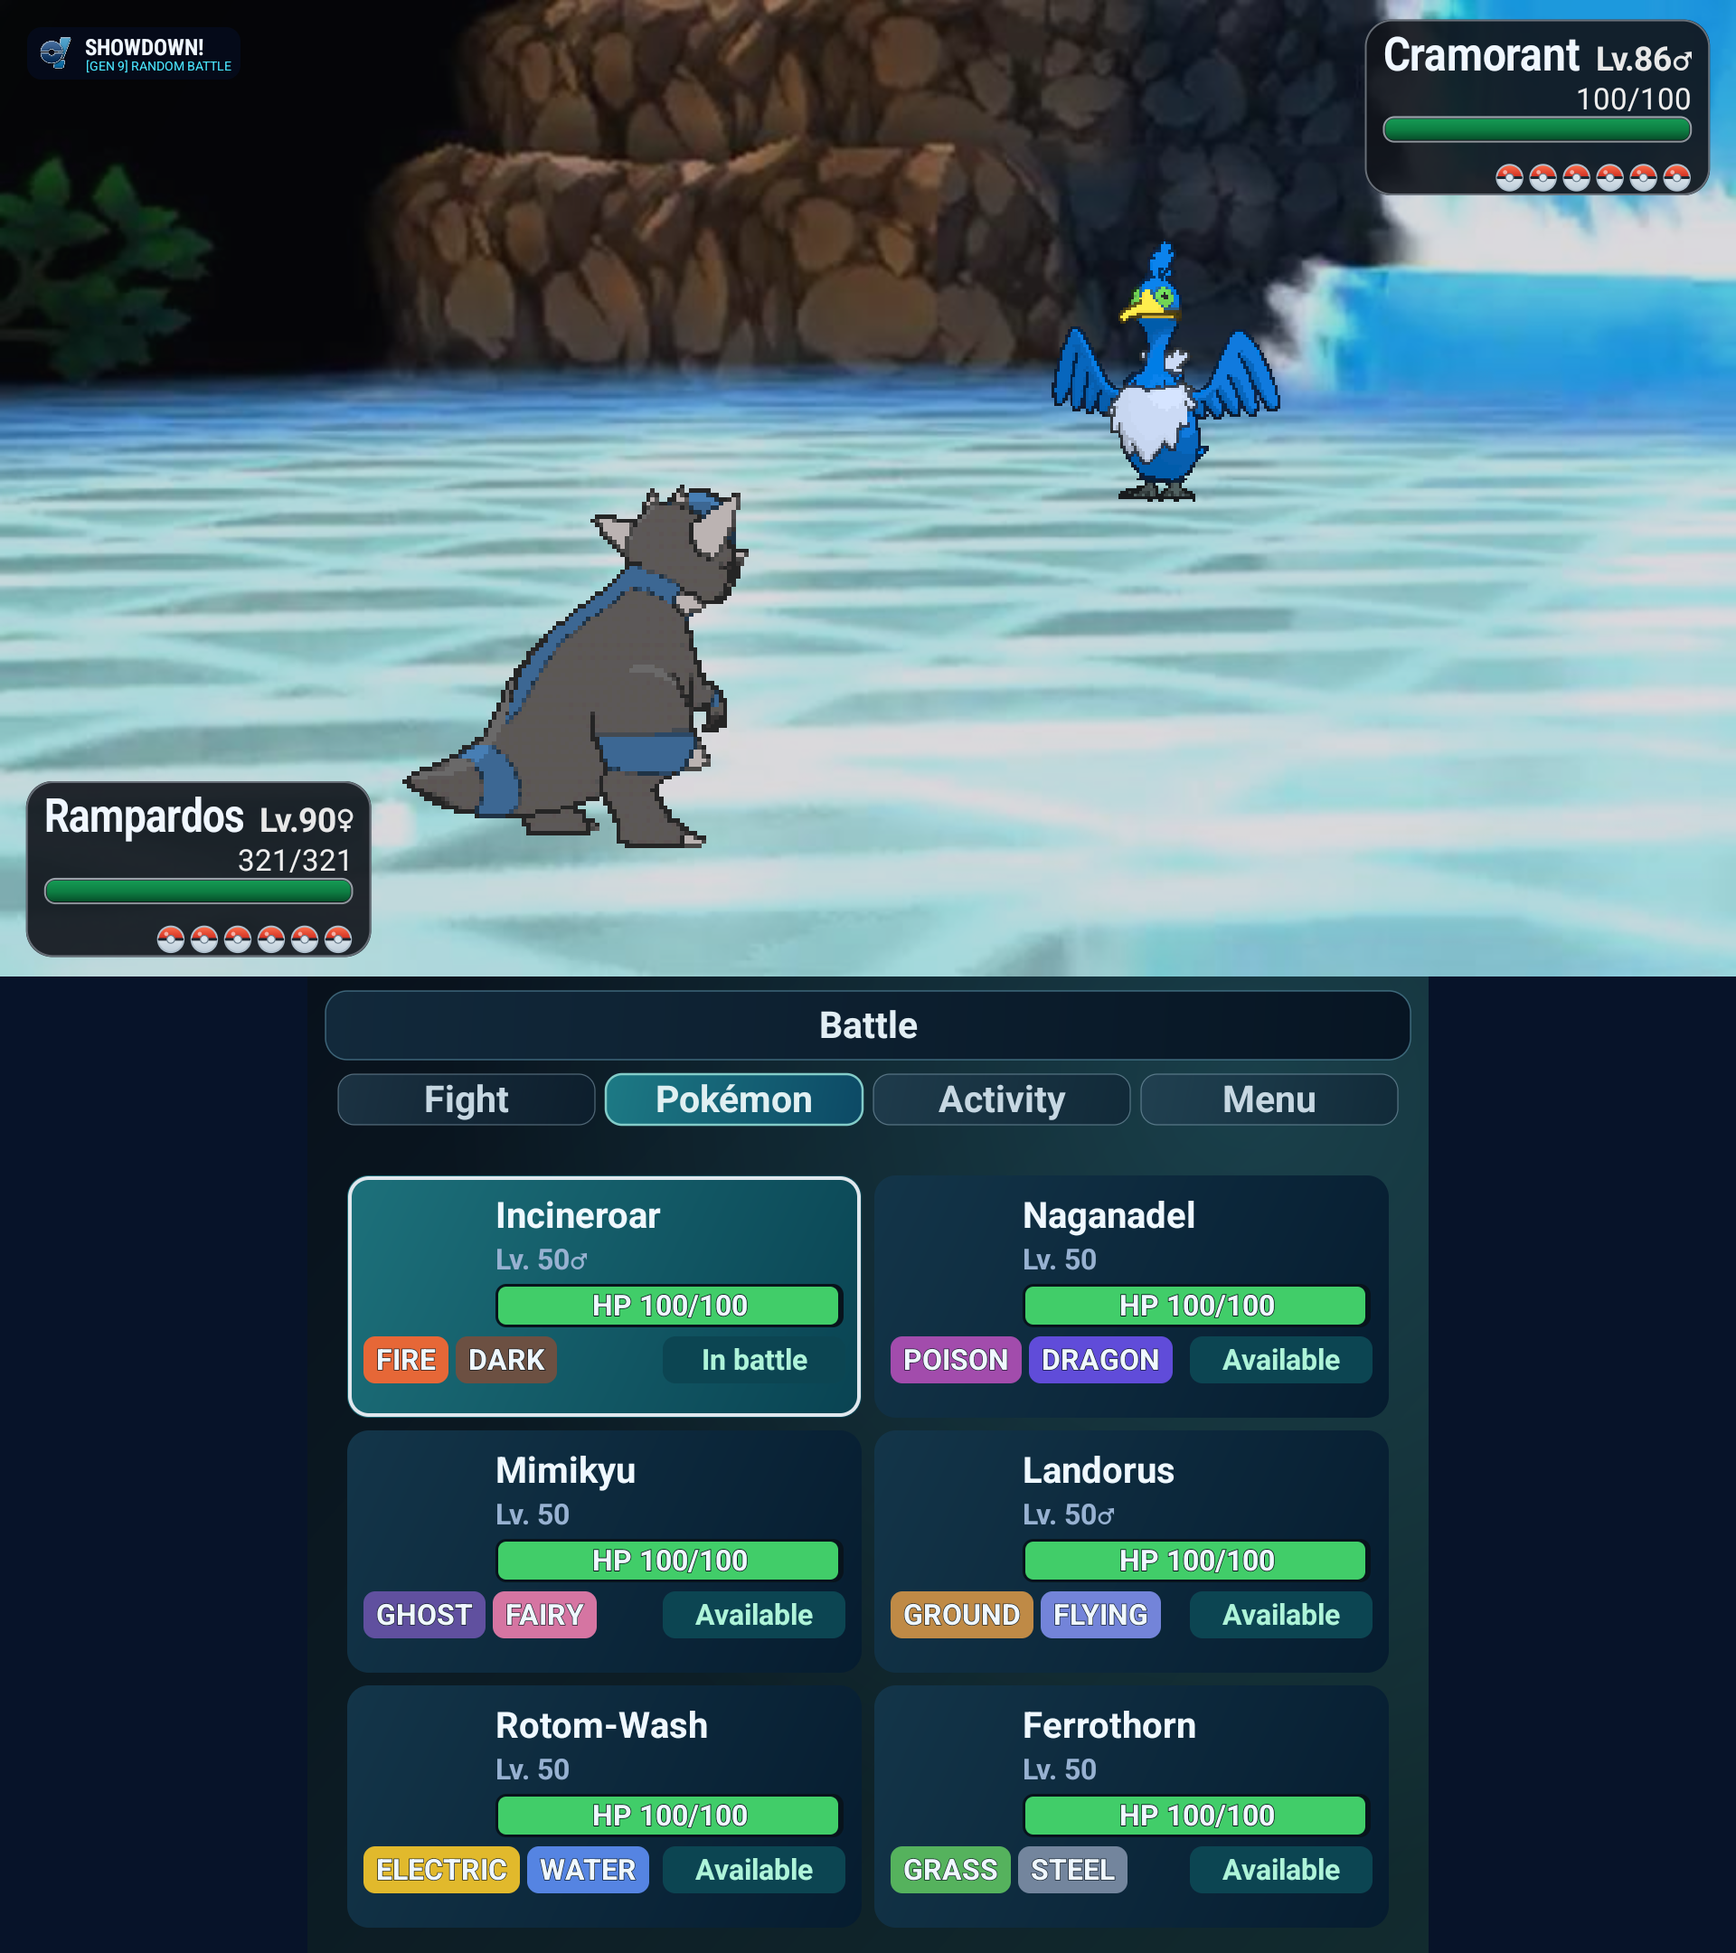
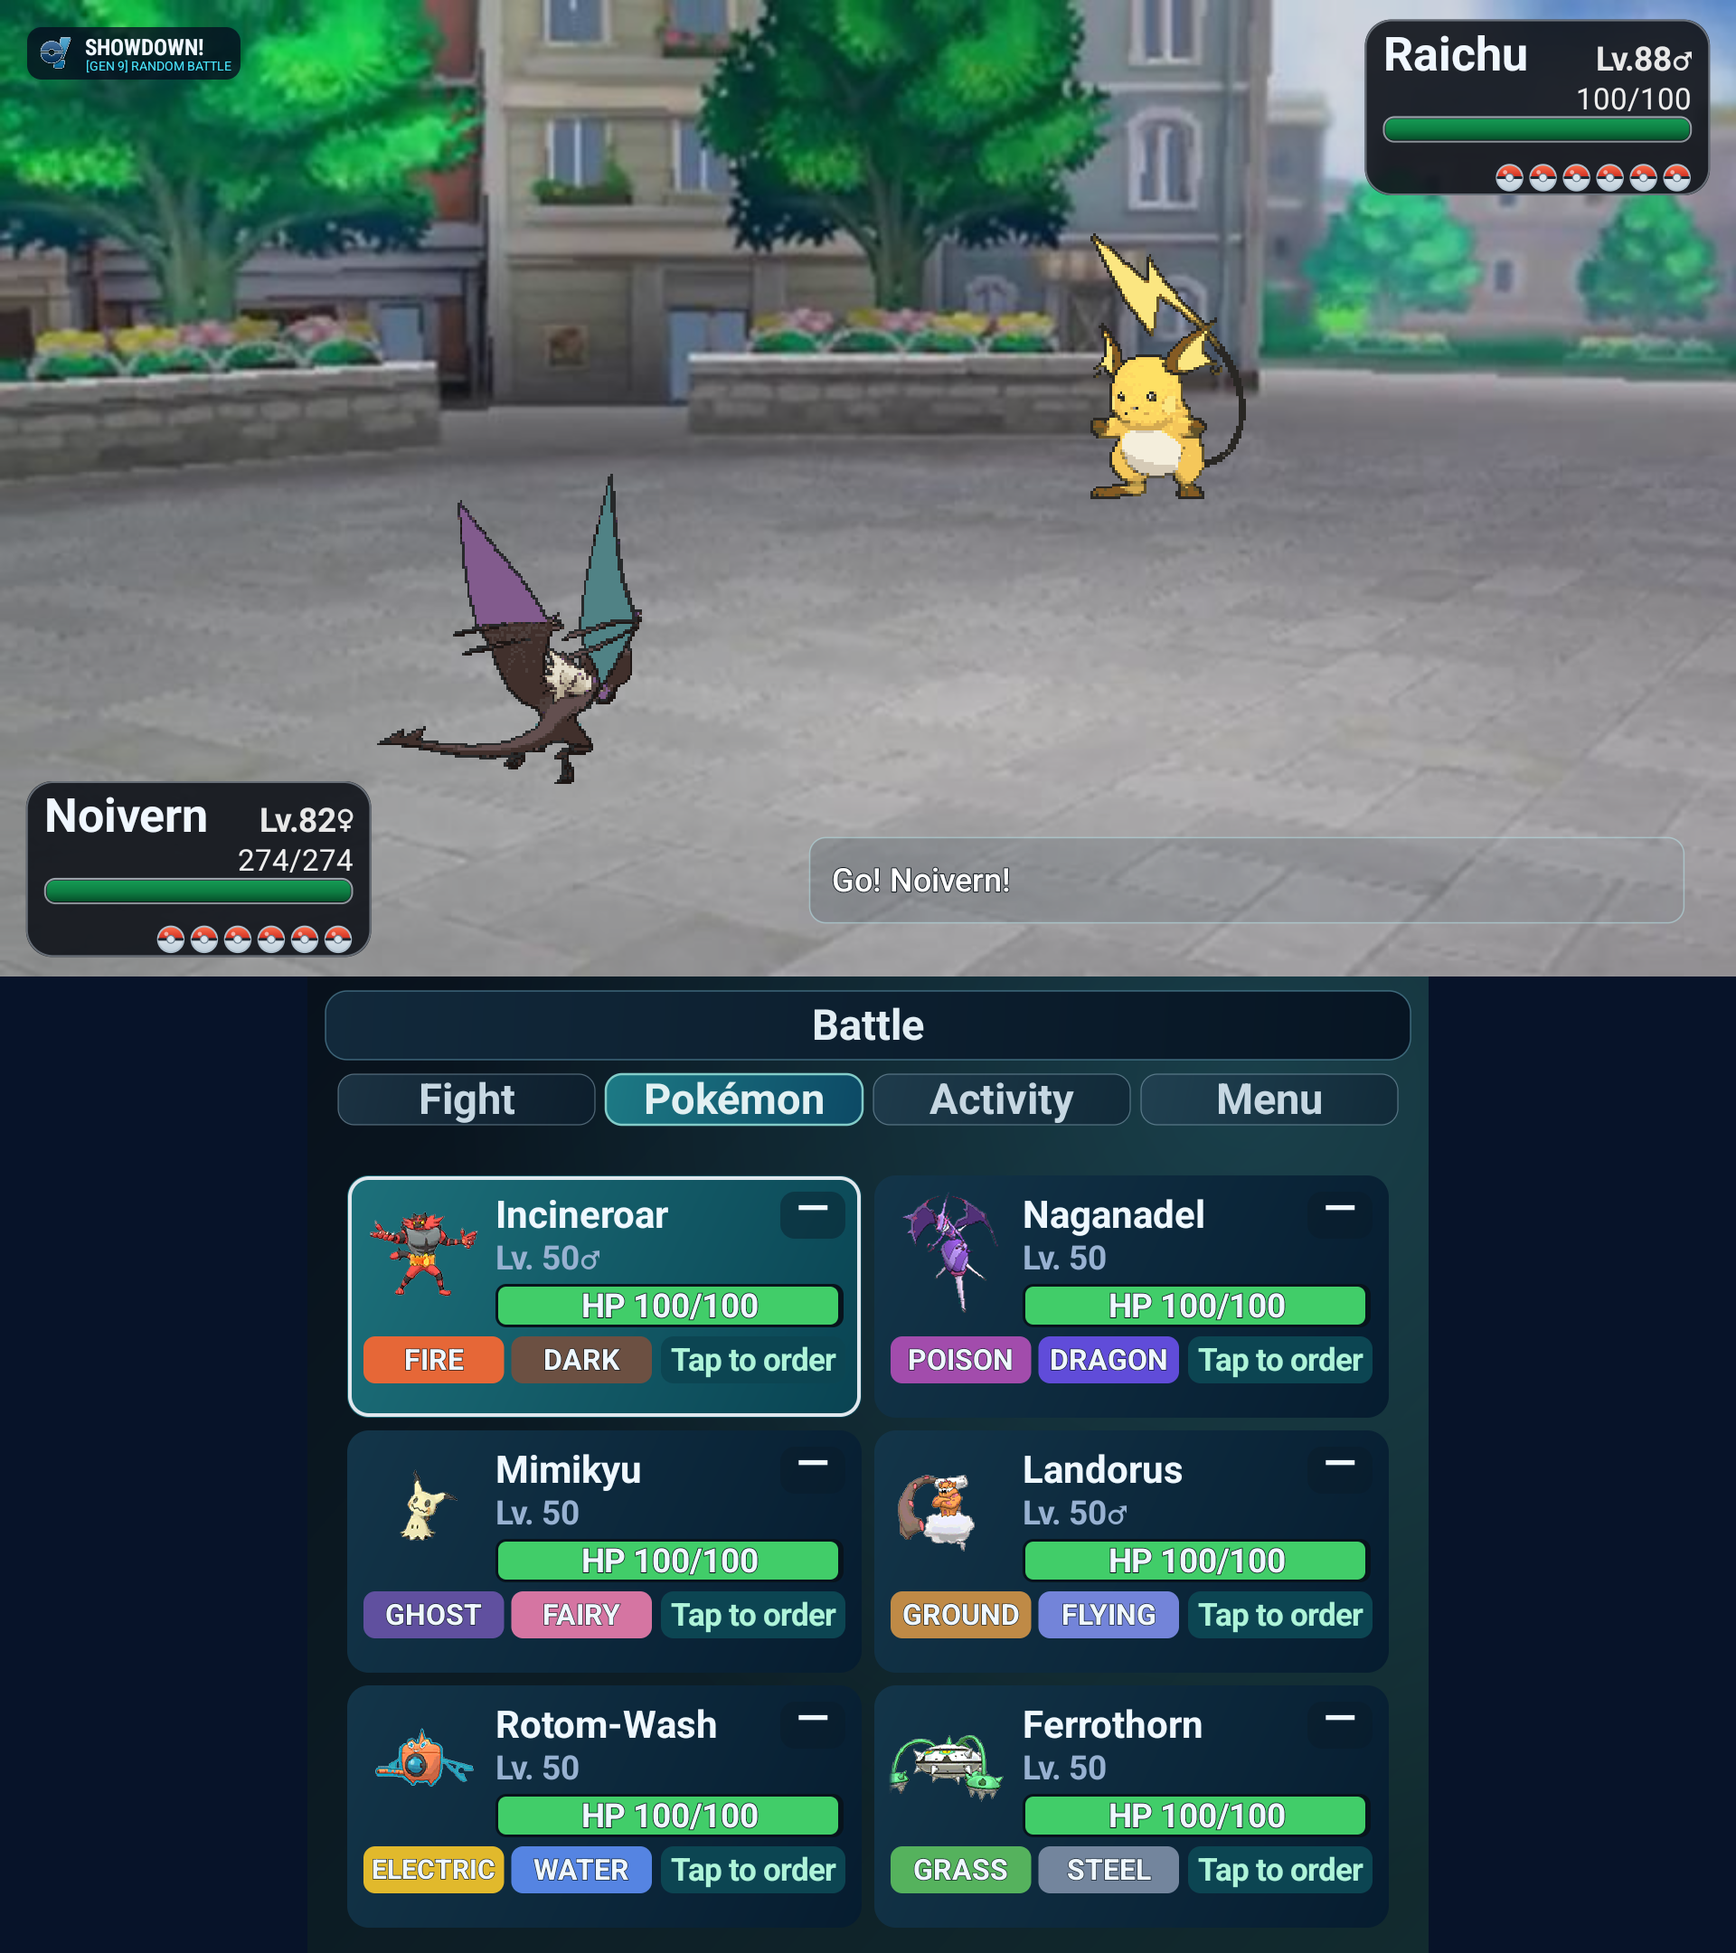
fix: contain switch cards and align battle log perspective

diff --git a/app/src/main/kotlin/dev/adrian/showdown/CommandDeckView.kt b/app/src/main/kotlin/dev/adrian/showdown/CommandDeckView.kt
@@ -1362,6 +1362,8 @@ class CommandDeckView(
                 canvas.drawText(if (previewPosition >= 0) "${previewPosition + 1}" else "—", marker.centerX(), marker.centerY() + 8f * scale, paint)
                 paint.textAlign = Paint.Align.LEFT
             }
+            canvas.save()
+            canvas.clipRect(bounds)
             val spriteBounds = RectF(bounds.left + 16f * scale, bounds.top + 18f * scale, bounds.left + 150f * scale, bounds.top + 152f * scale)
             teamSprites[pokemon]?.draw(canvas, spriteBounds, SystemClock.elapsedRealtime())
             paint.typeface = android.graphics.Typeface.create("sans-serif", android.graphics.Typeface.BOLD)
@@ -1381,19 +1383,24 @@ class CommandDeckView(
             paint.color = MUTED
             canvas.drawText("Lv. ${details.level}${details.gender.ifBlank { "" }}", nameLeft, bounds.top + 104f * scale, paint)
             drawTeamHp(canvas, RectF(nameLeft, bounds.top + 120f * scale, bounds.right - 20f * scale, bounds.top + 168f * scale), details.hp, scale)
-            var typeX = bounds.left + 18f * scale
             paint.typeface = android.graphics.Typeface.create("sans-serif", android.graphics.Typeface.BOLD)
-            paint.textSize = readableTextSize(20f, scale, 18f, 14f)
             val bottomRow = RectF(bounds.left + 18f * scale, bounds.top + 178f * scale, bounds.right - 18f * scale, bounds.top + 230f * scale)
-            details.types.forEach { type ->
-                val typeWidth = maxOf(92f * scale, paint.measureText(type) + 28f * scale)
-                val typeBounds = RectF(typeX, bottomRow.top, typeX + typeWidth, bottomRow.bottom)
+            val visibleTypes = details.types.take(2)
+            val rowBounds = SwitchTeamLayout.rowBounds(bounds.toSwitchTeamBounds(), scale, visibleTypes.size)
+            visibleTypes.forEachIndexed { index, type ->
+                val typeRegion = SwitchTeamLayout.typeBounds(rowBounds, index)
+                val typeBounds = RectF(typeRegion.left, bottomRow.top, typeRegion.right, bottomRow.bottom)
                 paint.color = movePalette(type).base
                 canvas.drawRoundRect(typeBounds, 13f * scale, 13f * scale, paint)
                 paint.textAlign = Paint.Align.CENTER
+                paint.textSize = fittedTextSize(
+                    type,
+                    typeBounds.width() - 18f * scale,
+                    readableTextSize(20f, scale, 18f, 12f),
+                    readableTextSize(14f, scale, 12f, 12f)
+                )
                 drawOutlinedText(canvas, type, typeBounds.centerX(), centeredTextBaseline(typeBounds.centerY()), Color.rgb(7, 18, 26), PAPER, 1.5f * scale)
                 paint.textAlign = Paint.Align.LEFT
-                typeX = typeBounds.right + 8f * scale
             }
             val state = when {
                 details.condition.contains("FNT", true) -> "Fainted"
@@ -1402,8 +1409,7 @@ class CommandDeckView(
                 pokemon.equals(session.playerPokemon, true) -> "In battle"
                 else -> "Available"
             }
-            val stateLeft = maxOf(typeX + 4f * scale, bounds.right - 220f * scale)
-            val stateBounds = RectF(stateLeft, bottomRow.top, bounds.right - 18f * scale, bottomRow.bottom)
+            val stateBounds = RectF(rowBounds.statusLeft, bottomRow.top, rowBounds.right, bottomRow.bottom)
             paint.color = if (details.condition.contains("FNT", true)) Color.rgb(95, 31, 66) else Color.rgb(12, 69, 82)
             canvas.drawRoundRect(stateBounds, 14f * scale, 14f * scale, paint)
             paint.textAlign = Paint.Align.CENTER
@@ -1416,8 +1422,11 @@ class CommandDeckView(
             paint.color = if (details.condition.contains("FNT", true)) MAGENTA else Color.rgb(174, 244, 217)
             canvas.drawText(state, stateBounds.centerX(), centeredTextBaseline(stateBounds.centerY()), paint)
             paint.textAlign = Paint.Align.LEFT
+            canvas.restore()
         }
     }
+
+    private fun RectF.toSwitchTeamBounds() = SwitchTeamCardBounds(left, top, right, bottom)
 
     private fun requestTeamSprite(species: String) {
         if (teamSprites.containsKey(species) || !requestedTeamSprites.add(species)) return

diff --git a/app/src/main/kotlin/dev/adrian/showdown/ShowdownMoveEffectsView.kt b/app/src/main/kotlin/dev/adrian/showdown/ShowdownMoveEffectsView.kt
@@ -25,6 +25,7 @@ class ShowdownMoveEffectsView(
     private var pageLoaded = false
     private var playbackPaused = false
     private var playbackSpeed = 1f
+    private var battlePerspective = "p1"
     private var released = false
     private val nativeAudioBridge = NativeAudioBridge(audioCueListener, audioCueResetter, audioMoveResetter)
     private val nativeBattleLogBridge = NativeBattleLogBridge(battleLogListener, battleLogSyncListener)
@@ -47,6 +48,7 @@ class ShowdownMoveEffectsView(
                 if (released) return
                 pageLoaded = true
                 runJavascript("window.ShowdownNativeEffects.setSpeed($playbackSpeed);")
+                runJavascript("window.ShowdownNativeEffects.setPerspective('$battlePerspective');")
                 seed(protocolHistoryProvider())
                 if (playbackPaused) runJavascript("window.ShowdownNativeEffects.pause();")
                 flushPendingPackets()
@@ -90,6 +92,12 @@ class ShowdownMoveEffectsView(
         if (nextSpeed == playbackSpeed) return
         playbackSpeed = nextSpeed
         runJavascript("window.ShowdownNativeEffects.setSpeed($playbackSpeed);")
+    }
+
+    fun setPerspective(side: String) {
+        val next = side.takeIf { it == "p1" || it == "p2" } ?: return
+        battlePerspective = next
+        runJavascript("window.ShowdownNativeEffects.setPerspective('$next');")
     }
 
     fun release() {
@@ -164,6 +172,7 @@ class ShowdownMoveEffectsView(
                     <script>
                     (function () {
                         var battle = null;
+                        var nativeBattlePerspective = 'p1';
                         var animationSpeed = 1;
                         var captureNativeBattleLog = true;
                         var chromeObserver = null;
@@ -202,6 +211,13 @@ class ShowdownMoveEffectsView(
                         }
                         function nativeBattleLogSynchronized(generation) {
                             if (window.ShowdownNativeBattleLog) window.ShowdownNativeBattleLog.synced(Number(generation) || 0);
+                        }
+                        function applyNativeBattlePerspective() {
+                            if (!battle) return;
+                            battle.setViewpoint(nativeBattlePerspective);
+                            if (battle.scene && battle.scene.log && battle.scene.log.battleParser) {
+                                battle.scene.log.battleParser.perspective = battle.mySide.sideid;
+                            }
                         }
                         function installBattleLogHooks() {
                             if (typeof BattleLog === 'undefined' || BattleLog.prototype.__showdownNativeBattleLogHooked) return;
@@ -373,6 +389,7 @@ class ShowdownMoveEffectsView(
                             document.getElementById('battle').innerHTML = '';
                             document.getElementById('log').innerHTML = '';
                             battle = new Battle({ id: 'showdownds', paused: true, ${'$'}frame: jQuery('#battle'), ${'$'}logFrame: jQuery('#log') });
+                            applyNativeBattlePerspective();
                             battle.setMute(true);
                             var scene = battle.scene;
                             var updateAcceleration = scene.updateAcceleration;
@@ -411,6 +428,11 @@ class ShowdownMoveEffectsView(
                             setSpeed: function (speed) {
                                 animationSpeed = Math.max(0.25, Math.min(4, Number(speed) || 1));
                                 if (battle) battle.scene.acceleration = animationSpeed;
+                            },
+                            setPerspective: function (side) {
+                                if (side !== 'p1' && side !== 'p2') return;
+                                nativeBattlePerspective = side;
+                                applyNativeBattlePerspective();
                             },
                             pause: function () {
                                 if (battle) battle.pause();

diff --git a/app/src/main/kotlin/dev/adrian/showdown/SwitchTeamLayout.kt b/app/src/main/kotlin/dev/adrian/showdown/SwitchTeamLayout.kt
@@ -7,12 +7,26 @@ data class SwitchTeamCardBounds(
     val bottom: Float
 )
 
+data class SwitchTeamRowBounds(
+    val left: Float,
+    val typeRight: Float,
+    val statusLeft: Float,
+    val right: Float,
+    val typeGap: Float,
+    val typeWidth: Float
+)
+
 object SwitchTeamLayout {
     const val COLUMNS = 2
     const val LEFT = 44f
     const val TOP = 220f
     const val GAP = 14f
     const val BOTTOM_MARGIN = 28f
+    const val CARD_BOTTOM_ROW_LEFT = 18f
+    const val CARD_BOTTOM_ROW_RIGHT = 18f
+    const val STATUS_WIDTH = 204f
+    const val STATUS_GAP = 10f
+    const val TYPE_GAP = 8f
 
     fun rows(teamSize: Int) = (teamSize + COLUMNS - 1) / COLUMNS
 
@@ -28,5 +42,22 @@ object SwitchTeamLayout {
         val cardLeft = left + column * (cardWidth + gap)
         val cardTop = top + row * (cardHeight + gap)
         return SwitchTeamCardBounds(cardLeft, cardTop, cardLeft + cardWidth, cardTop + cardHeight)
+    }
+
+    fun rowBounds(card: SwitchTeamCardBounds, scale: Float, typeCount: Int): SwitchTeamRowBounds {
+        val left = card.left + CARD_BOTTOM_ROW_LEFT * scale
+        val right = card.right - CARD_BOTTOM_ROW_RIGHT * scale
+        val statusWidth = minOf(STATUS_WIDTH * scale, (right - left) * 0.42f)
+        val statusLeft = right - statusWidth
+        val typeRight = statusLeft - STATUS_GAP * scale
+        val count = typeCount.coerceAtLeast(1)
+        val typeGap = TYPE_GAP * scale
+        val typeWidth = ((typeRight - left) - typeGap * (count - 1)) / count
+        return SwitchTeamRowBounds(left, typeRight, statusLeft, right, typeGap, typeWidth)
+    }
+
+    fun typeBounds(row: SwitchTeamRowBounds, index: Int): SwitchTeamCardBounds {
+        val left = row.left + index * (row.typeWidth + row.typeGap)
+        return SwitchTeamCardBounds(left, 0f, left + row.typeWidth, 0f)
     }
 }

diff --git a/app/src/main/kotlin/dev/adrian/showdown/ShowdownChangelog.kt b/app/src/main/kotlin/dev/adrian/showdown/ShowdownChangelog.kt
@@ -117,7 +117,8 @@ object ShowdownChangelog {
                 "Native Showdown battle wording now replaces protocol fallbacks in place, preventing duplicate readable lines while the battle feed catches up.",
                 "Anonymous guest battles now return to a truthful lobby after an app process restart instead of showing a stale battle transcript.",
                 "Fainted Pokémon now keep their zero-HP card and party Poké Balls visible while their field sprite leaves play.",
-                "Switch cards now keep their readable text, HP bars, type badges, and selection status separated on the Thor lower display."
+                "Switch cards now reserve separate type and status regions at the Thor lower display density, keeping long type names inside their own card.",
+                "Native battle messages now follow the local player side, so move wording matches the upper HP cards in every matchup."
             )
         ),
         ShowdownChangelogEntry(

diff --git a/app/src/main/kotlin/dev/adrian/showdown/MainActivity.kt b/app/src/main/kotlin/dev/adrian/showdown/MainActivity.kt
@@ -595,6 +595,7 @@ class MainActivity : Activity() {
         )
         showdownMoveEffects = effects
         frame.addView(effects, FrameLayout.LayoutParams(-1, -1))
+        effects.setPerspective(session.battlePlayerSlot())
         effects.setPlaybackSpeed(replaySpeed)
         effects.setPlaybackPaused(replayPaused || replayPausedForLifecycle || livePlaybackPausedForLifecycle)
         effects.seed(session.protocolHistory())
@@ -687,6 +688,7 @@ class MainActivity : Activity() {
         if (lines.any { it.startsWith("|init|battle") }) battleScene?.resetBattleFeed()
         if (lines.any { it.startsWith("|init|battle") }) ensureShowdownMoveEffects()
         if (!effectsAlreadyCreated && lines.any { it.startsWith("|init|battle") }) return
+        showdownMoveEffects?.setPerspective(session.battlePlayerSlot())
         showdownMoveEffects?.applyProtocol(lines, session.battleLogGeneration())
     }
 

diff --git a/app/src/test/kotlin/dev/adrian/showdown/ShowdownMoveEffectsContractTest.kt b/app/src/test/kotlin/dev/adrian/showdown/ShowdownMoveEffectsContractTest.kt
@@ -12,6 +12,10 @@ class ShowdownMoveEffectsContractTest {
 
         assertTrue(source.contains("new Battle({ id: 'showdownds', paused: true,"))
         assertTrue(source.contains("if (battle.paused) battle.play();"))
+        assertTrue(source.contains("var nativeBattlePerspective = 'p1';"))
+        assertTrue(source.contains("function applyNativeBattlePerspective()"))
+        assertTrue(source.contains("battle.scene.log.battleParser.perspective = battle.mySide.sideid;"))
+        assertTrue(source.contains("setPerspective: function (side)"))
         assertTrue(source.contains("this.scene.__showdownNativeResultCues = [];"))
         assertTrue(source.contains("nativeMoveStarted();"))
         assertTrue(source.contains("function clearNativeCueTimers(scene)"))

diff --git a/app/src/test/kotlin/dev/adrian/showdown/SwitchTeamLayoutTest.kt b/app/src/test/kotlin/dev/adrian/showdown/SwitchTeamLayoutTest.kt
@@ -18,4 +18,17 @@ class SwitchTeamLayoutTest {
         assertTrue(second.left > first.right)
         assertTrue(last.bottom <= 1080f - SwitchTeamLayout.BOTTOM_MARGIN)
     }
+
+    @Test
+    fun switchTeamBottomRowReservesStatusBeforeSizingTypeBadges() {
+        val card = SwitchTeamLayout.bounds(1240f, 1080f, 1f, 0, 6)
+        val row = SwitchTeamLayout.rowBounds(card, 1f, 2)
+        val firstType = SwitchTeamLayout.typeBounds(row, 0)
+        val secondType = SwitchTeamLayout.typeBounds(row, 1)
+
+        assertTrue(firstType.right <= secondType.left)
+        assertTrue(secondType.right <= row.typeRight)
+        assertTrue(row.typeRight < row.statusLeft)
+        assertTrue(row.statusLeft < row.right)
+    }
 }
